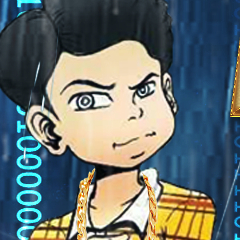
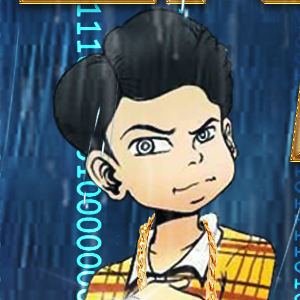
Homepage chat window: real AIM-style bubbles, reply box, recentered PFP; burn CTA above chat in site accent color
- Fix .aim-msg-text centering bug (inherited button text-align), restyle as
  left-aligned rounded speech bubbles instead of plain divided rows
- Titlebar now reads "Chat" instead of "Dyl"
- Add a reply/input bar at the bottom of the mini chat window
- Re-crop dyl-pfp.png for correct centering
- Move Burn CTA above the chat preview, recolor from orange to the site's
  own accent (new .btn-burn-hero, .btn-burn itself untouched for /burn's
  own destructive-action styling
- CLAUDE.md: record verified ETH trading-card tier metadata (Gold/Standard
  confirmed live via tokenURI reads) plus Dylan-supplied full rarity
  structure across all 4 chains and the ETH burn-to-mint reward ratios

EOF
)

diff --git a/app/globals.css b/app/globals.css
@@ -564,6 +564,7 @@ input {
   gap: 10px;
   padding: 10px 12px;
   border-top: 1px solid rgba(255, 255, 255, 0.06);
+  text-align: left;
 }
 
 .aim-msg:first-child {
@@ -586,7 +587,8 @@ input {
 .aim-msg-body {
   display: flex;
   flex-direction: column;
-  gap: 2px;
+  align-items: flex-start;
+  gap: 4px;
   min-width: 0;
 }
 
@@ -609,11 +611,56 @@ input {
 }
 
 .aim-msg-text {
+  display: inline-block;
+  align-self: flex-start;
+  max-width: 100%;
   font-family: "SF Mono", "JetBrains Mono", Menlo, monospace;
   font-size: 12.5px;
   line-height: 1.5;
+  text-align: left;
   color: #cfd9d2;
   white-space: normal;
+  background: rgba(255, 255, 255, 0.06);
+  border: 1px solid rgba(255, 255, 255, 0.08);
+  border-radius: 3px 12px 12px 12px;
+  padding: 7px 11px;
+}
+
+.aim-mini-reply {
+  display: flex;
+  align-items: center;
+  gap: 8px;
+  width: 100%;
+  padding: 9px 10px;
+  border-top: 1px solid rgba(255, 255, 255, 0.1);
+  background: rgba(0, 0, 0, 0.2);
+}
+
+.aim-mini-reply-input {
+  flex: 1;
+  text-align: left;
+  font-family: "SF Mono", "JetBrains Mono", Menlo, monospace;
+  font-size: 12px;
+  color: #6b7a70;
+  background: rgba(255, 255, 255, 0.04);
+  border: 1px solid rgba(255, 255, 255, 0.08);
+  border-radius: 999px;
+  padding: 7px 12px;
+}
+
+.aim-mini-reply-send {
+  flex-shrink: 0;
+  font-family: "SF Mono", "JetBrains Mono", Menlo, monospace;
+  font-weight: 700;
+  font-size: 11.5px;
+  color: var(--accent);
+  padding: 7px 12px;
+  border-radius: 999px;
+  border: 1px solid color-mix(in srgb, var(--accent) 40%, transparent);
+}
+
+.aim-mini-reply:hover .aim-mini-reply-send {
+  background: color-mix(in srgb, var(--accent) 15%, transparent);
 }
 
 .landing-chain-label {
@@ -675,6 +722,31 @@ input {
 .btn-burn:hover {
   transform: translateY(-1px);
   box-shadow: 0 0 0 1px rgba(255, 107, 40, 0.6), 0 10px 32px rgba(255, 91, 31, 0.45);
+}
+
+.btn-burn-hero {
+  display: flex;
+  align-items: center;
+  justify-content: center;
+  gap: 8px;
+  width: 100%;
+  max-width: 340px;
+  background: var(--accent);
+  color: #04140a;
+  font-weight: 700;
+  font-size: 14px;
+  padding: 13px 20px;
+  border-radius: 999px;
+  margin-bottom: 20px;
+  box-shadow: 0 0 0 1px color-mix(in srgb, var(--accent) 30%, transparent),
+    0 8px 26px color-mix(in srgb, var(--accent) 18%, transparent);
+  transition: transform 0.15s ease, box-shadow 0.15s ease;
+}
+
+.btn-burn-hero:hover {
+  transform: translateY(-1px);
+  box-shadow: 0 0 0 1px color-mix(in srgb, var(--accent) 50%, transparent),
+    0 10px 32px color-mix(in srgb, var(--accent) 28%, transparent);
 }
 
 .landing-art {

diff --git a/components/Landing.tsx b/components/Landing.tsx
@@ -107,10 +107,14 @@ export default function Landing({
               </div>
             </div>
 
+            <button className="btn-burn-hero" onClick={() => router.push("/burn")}>
+              Burn Old NFTs &amp; $Dyl Coin
+            </button>
+
             <div className="aim-mini-window">
               <div className="aim-mini-titlebar">
                 <span className="aim-titlebar-dot" />
-                Dyl
+                Chat
               </div>
               <div className="aim-mini-body">
                 <button className="aim-msg" onClick={() => router.push("/chat")}>
@@ -149,11 +153,11 @@ export default function Landing({
                   </span>
                 </button>
               </div>
+              <button className="aim-mini-reply" onClick={() => router.push("/chat")}>
+                <span className="aim-mini-reply-input">Message Dyl…</span>
+                <span className="aim-mini-reply-send">Send</span>
+              </button>
             </div>
-
-            <button className="btn-burn" onClick={() => router.push("/burn")}>
-              Burn Old NFTs &amp; $Dyl Coin
-            </button>
 
             <button className="btn-connect" onClick={onConnect}>
               Enter App

diff --git a/CLAUDE.md b/CLAUDE.md
@@ -108,7 +108,38 @@ on-chain yet — verify each one for real (bytecode, `name()`/`symbol()`,
 actual holder data) before writing any burn-eligibility logic against them.
 
 **Old Dyl NFT collection (Ethereum mainnet)**
-- `0x253bfce1757bb2e5f9159738f8309c73dafe09ea`
+- `0x253bfce1757bb2e5f9159738f8309c73dafe09ea`. Verified live via RPC:
+  `name()`/`symbol()` = `"Dyl"`/`"Dyl"`, `totalSupply()` = 2227.
+  **This single contract mixes several distinct item types under one
+  `totalSupply` — NOT all 2227 tokens are trading cards.** Confirmed by
+  reading real `tokenURI`s + IPFS metadata across a spread of ~40 token
+  ids (0 through 2226): the on-chain `name`/`attributes` distinguish them
+  cleanly, no guessing needed.
+  - id `0`: `"Dyl"` PFP, `Edition: PFP`, `Rarity: 1/1` — a single 1-of-1,
+    not a card.
+  - ids ~`1`–`219`: `"Crypto Rich Deluxe"` album-cover VIP editions,
+    `Edition: Deluxe`, `Rarity: 1/200` — not cards.
+  - ids ~`220`–`239`: one-off song covers like `"Treat Myself"`
+    (`Edition: Single`, `Rarity: 1/1`) — not cards.
+  - ids ~`240`–`359`: **`"Crypto Rich Deluxe Trading Card (Gold)"`** —
+    `Edition: Gold`, `Rarity: 1/100`. This IS a trading card, Gold tier.
+  - ids ~`360`–`1349`: **`"Crypto Rich Deluxe Trading Card (Standard)"`**
+    — `Edition: Standard`, `Rarity: 1/1000`. Trading card, Standard tier.
+  - ids ~`1350`–`2149` (~800 tokens, a big chunk): **`"Mystery Trading
+    Card"`** — pre-reveal placeholder metadata only (`"Pre-Reveal. What
+    Will You Get?"`), no `attributes`/tier yet. These tokens' real tier
+    (Gold/Standard/other) is genuinely unknown until/unless the project
+    ever reveals them — can't be determined from current metadata.
+  - ids ~`2150`–`2226`: **`"Crypto Rich Trading Card (Standard)"`** (the
+    non-Deluxe album) — `Edition: Standard`, `Rarity: 1/1000`.
+  - **No "Platinum" tier was found anywhere** across this full sample —
+    only Gold and Standard appeared among revealed cards.
+  - **How to distinguish programmatically**: read `tokenURI(id)` →
+    fetch the JSON → check `name` for the substring `"Trading Card"` to
+    know if it's a card at all, then read `attributes[].trait_type ===
+    "Edition"` for the tier (`"Gold"` / `"Standard"`) — do NOT rely on
+    fixed id ranges as authoritative, the boundaries above are from
+    sampling, not an exhaustive per-token scan.
 
 **A second, separate Dyl-owned ERC-721 (Ethereum)** —
 `0x6764aE7179342134Dfe263C59A077E40d25f2B95`. Verified live via a public
@@ -256,6 +287,61 @@ controls it):
   pubkey against a live RPC call, so none is recorded here.** Don't use an
   unverified address; call the real `Burn`/`BurnChecked` instruction from
   `@solana/spl-token` instead when this gets built.
+
+### Full rarity/tier structure, per chain (Dylan-supplied 2026-07-27 — ground
+truth for reward design, only partially independently verified so far)
+
+Dylan supplied this breakdown directly as the real, intended rarity system
+across every chain. Where noted, pieces of it match what was independently
+verified via live `tokenURI` reads on `0x253bfce1757bb2e5f9159738f8309c73dafe09ea`
+above; the rest is recorded as-given, not yet re-derived from raw contract/API
+data — verify further before hardcoding any of it into eligibility logic.
+
+- **Ethereum — 2,442 NFTs total** ("Main Chain. Most History. VIPs."):
+  - **VIP NFTs — 221**: `1/200` Deluxe VIP, `1/10` Classic Rare VIP, `1/1`
+    Singles Very Rare VIP. (Matches what was independently found: the
+    `"Crypto Rich Deluxe"` album-cover batch at `Rarity: 1/200` and one-off
+    songs like `"Treat Myself"` at `Rarity: 1/1` — both verified live above.)
+  - **Deluxe Trading Cards — 1,111**: `1/1000` Standard/Common, `1/100`
+    Gold/Rare, `1/10` Platinum/Very Rare, `1/1` Diamond/Extremely Rare VIP.
+    Note 1000+100+10+1 = 1111 exactly — the tier counts ARE the total.
+    Standard and Gold were independently confirmed live in real metadata
+    (`Edition: "Standard"`/`"Gold"`); Platinum and Diamond exist per this
+    tier math but weren't hit by the (sparse, ~40-id) sample taken so far —
+    at only 10 and 1 tokens respectively out of 1,111, that's expected, not
+    a contradiction. A denser scan of the ~240–1349 id range would find
+    them before building real eligibility logic.
+  - **Classic Trading Cards — 1,111**: identical 4-tier structure
+    (Standard/Gold/Platinum/Diamond, same rarity denominators) for the
+    non-Deluxe "Crypto Rich" (Classic) album. The `"Crypto Rich Trading
+    Card (Standard)"` batch at ids ~2150–2226 verified live above is this
+    category's tail end.
+- **Solana — 1,111 NFTs total** ("First Music NFT on MagicEden Launchpad"):
+  **Deluxe Trading Cards only**, same 4-tier structure as Ethereum's Deluxe
+  cards (Standard 1/1000, Gold 1/100, Platinum 1/10, Diamond 1/1). This is
+  the "Crypto Rich Deluxe Trading Cards" collection already in
+  `lib/legacyCollections.ts` (Candy Machine ID
+  `7JvmupdkaFekk2bqqesk4Y22ejQhmpC8Gx5AkB3usgPw`).
+- **Tezos — 4,836 NFTs total** ("Top Music NFT Collection on Tezos by
+  Volume"), all under the objkt collection `KT1EcBQkN7vuVxg3gDZBbVb7qnBD6kDdS14K`:
+  Crypto Rich Deluxe (1,331 — 19 songs × 69 editions each), Crypto Rich
+  Classic (621 — 9 songs × 69 editions each), `gm` (420 — singles, 69
+  editions each). **No trading-card tier system on Tezos** — flat per-song
+  edition counts instead.
+- **Polygon — 475 NFTs total, current collection DEPRECATED**: minted via
+  MintSongs (`1/25 × 19 songs` = 475), a third-party platform that "went
+  out of business" in 2022 — explicitly not Dylan's fault, just a dead
+  platform. A brand-new Polygon collection is planned for existing Polygon
+  collectors; a second, distinct set — "Crypto Rich Deluxe Trading Cards"
+  on **ProtonMint** — was also mentioned as existing/planned but not yet
+  detailed (no contract address supplied yet for either).
+
+**Burn → free-mint reward ratio, Ethereum (Dylan-supplied 2026-07-27):**
+Standard card = 3 mints, Gold card = 5 mints, Platinum card = 7 mints.
+**Diamond's reward count wasn't given yet**, and no reward ratios have been
+supplied yet for Solana, Tezos, or Polygon, or for the non-trading-card VIP
+NFT tier (Deluxe/Classic/Singles) — don't assume parity with the trading-card
+numbers above until Dylan confirms those too.
 
 ---
 
